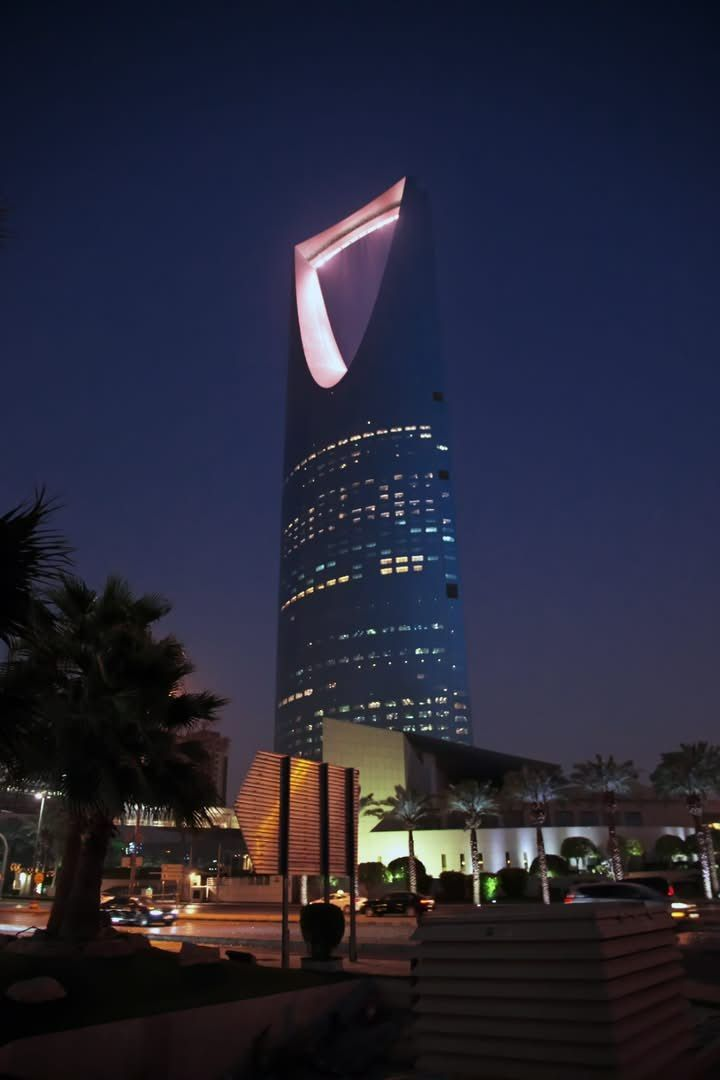
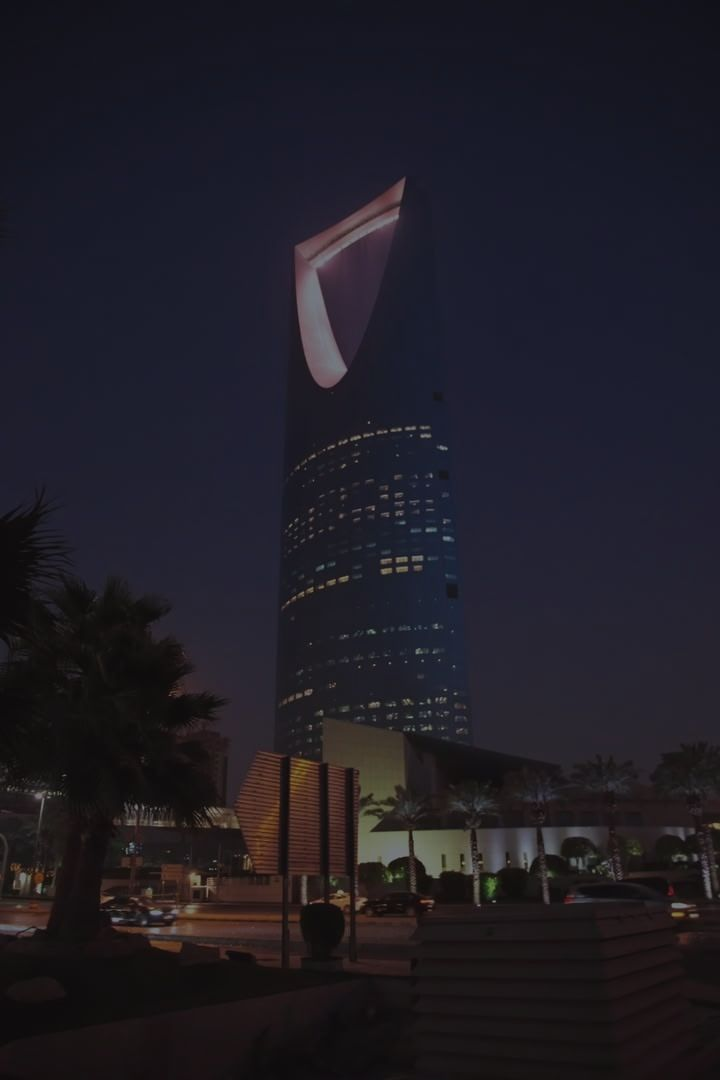
fix: email to info@zero2one.sa, English company name ZERO TO ONE, background image on body for all-device compatibility

diff --git a/skills/quiz-html/templates/quiz_template.html b/skills/quiz-html/templates/quiz_template.html
@@ -54,7 +54,12 @@ body{font-family:-apple-system,BlinkMacSystemFont,'PingFang SC','Microsoft YaHei
 .cat-group{margin-bottom:2px}
 .cat-top{padding:8px 16px;font-size:13px;font-weight:700;color:#2d3142;background:#fafbfd;display:flex;align-items:center;gap:6px;position:sticky;top:0;z-index:1;border-bottom:1px solid #f0f2f7}
 .cat-count{font-size:11px;color:#a8adbd;font-weight:normal}
-.cat-sub{padding:6px 16px 8px 16px}
+.cat-law{padding:8px 16px 4px 16px;font-size:12px;font-weight:600;color:#5a607a;display:flex;gap:6px;align-items:flex-start;line-height:1.45;border-top:1px solid #f5f6fa}
+.cat-law:first-of-type{border-top:none}
+.cat-law-name{flex:1;word-break:break-word}
+.cat-law-count{font-size:10px;color:#a8adbd;font-weight:normal;background:#f0f2f7;padding:1px 6px;border-radius:8px;flex-shrink:0;margin-top:2px}
+.cat-sub{padding:4px 16px 6px 24px}
+.cat-sub-flat{padding:10px 16px 12px 16px}
 .cat-sub-name{font-size:11px;color:#a8adbd;margin-bottom:5px;line-height:1.4}
 .cat-nums{display:flex;flex-wrap:wrap;gap:3px}
 .qnum{display:inline-flex;align-items:center;justify-content:center;min-width:30px;height:26px;padding:0 6px;border-radius:5px;font-size:12px;cursor:pointer;transition:all .15s;border:1.5px solid transparent;background:#f5f6fa;color:#5b6172;font-weight:600}
@@ -260,6 +265,8 @@ body.dark .io-btns button.exam{background:rgba(232,140,165,0.15);border-color:#e
 body.dark .left{background:#16213e;border-right-color:#0f3460}
 body.dark .left-scroll::-webkit-scrollbar-thumb{background:#333}
 body.dark .cat-top{background:#16213e;color:#e0e3ed;border-bottom-color:#0f3460}
+body.dark .cat-law{color:#c5cad8;border-top-color:#1f2a44}
+body.dark .cat-law-count{background:#1f2a44;color:#888}
 body.dark .cat-count{color:#666}
 body.dark .qnum{background:rgba(100,100,100,0.15);color:#777;border-color:transparent}
 body.dark .qnum:hover{border-color:#e88ca5;color:#fff}
@@ -507,6 +514,9 @@ function init() {
   buildSidebar();
   applyFilters();
   updateStats();
+
+  // 默认选中筛选结果中的第 1 题（首次进入不再是空白态）
+  if (filteredIds.length > 0) selectQ(filteredIds[0]);
 }
 
 function loadState() {
@@ -534,8 +544,8 @@ function loadFilters() {
     if (!activeFilters[btn.dataset.f]) btn.classList.add('off');
   });
 
-  // 学科：默认全选
-  const cats = [...new Set(QS.map(q => (q.category || '通用').trim()))];
+  // 学科：默认全选（只取一级分类）
+  const cats = [...new Set(QS.map(getCatKey))];
   try {
     const raw = localStorage.getItem(CATS_KEY);
     const arr = raw ? JSON.parse(raw) : null;
@@ -543,10 +553,31 @@ function loadFilters() {
   } catch (e) { activeCats = new Set(cats); }
 }
 
-/* ===== 分类 chips（按"学科/子分类"完整路径展示） ===== */
+/* ===== 分类解析 =====
+   category 形如 "通用类 / 1.中华人民共和国证券法（…）"：
+     一级（顶部 chip + 侧栏顶 cat-top）= 斜杠前的 "通用类"
+     二级（侧栏 cat-sub-top，法规名）  = 斜杠后剩余部分
+   knowledge_point 形如 "一、法律/1.中华人民共和国证券法（…）/《证券法》适用范围"：
+     真正的知识点 = 最后一段 "《证券法》适用范围"
+   既兼容旧扁平数据（无斜杠），又把 badcase 里冗余的层级路径清掉。
+*/
+function splitCat(raw) {
+  const s = (raw || '通用').trim();
+  const i = s.indexOf('/');
+  if (i < 0) return { top: s, sub: '' };
+  return { top: s.slice(0, i).trim() || '通用', sub: s.slice(i + 1).trim() };
+}
 function getCatKey(q) {
-  // category 字段已含 "物理 / 电学" 这种完整路径，直接用即可
-  return (q.category || '通用').trim();
+  return splitCat(q.category).top;
+}
+function getSubCat(q) {
+  return splitCat(q.category).sub;
+}
+function getKpLeaf(q) {
+  const raw = (q.knowledge_point || q.knowledge || '').trim();
+  if (!raw) return '未分类';
+  const parts = raw.split('/').map(s => s.trim()).filter(Boolean);
+  return parts.length ? parts[parts.length - 1] : '未分类';
 }
 function buildCatChips() {
   const cats = [...new Set(QS.map(getCatKey))];
@@ -581,30 +612,66 @@ function toggleCat(cat, el) {
 
 /* ===== 侧栏 ===== */
 function buildSidebar() {
+  // 三层：一级分类 → 法规（category 后段） → 知识点（knowledge_point 最后一段）
   const groups = {};
   QS.forEach(q => {
     const cat = getCatKey(q);
     if (!activeCats.has(cat)) return;
-    const sub = q.knowledge_point || q.knowledge || '未分类';
+    const law = getSubCat(q) || '通用';   // 二级：法规名
+    const kp = getKpLeaf(q);              // 三级：知识点叶子
     if (!groups[cat]) groups[cat] = {};
-    if (!groups[cat][sub]) groups[cat][sub] = [];
-    groups[cat][sub].push(q);
+    if (!groups[cat][law]) groups[cat][law] = {};
+    if (!groups[cat][law][kp]) groups[cat][law][kp] = [];
+    groups[cat][law][kp].push(q);
   });
 
   const container = document.getElementById('leftScroll');
   container.innerHTML = '';
   Object.keys(groups).forEach(cat => {
-    const subs = groups[cat];
-    const total = Object.values(subs).reduce((s, arr) => s + arr.length, 0);
+    const laws = groups[cat];
+    const lawKeys = Object.keys(laws);
+    const total = Object.values(laws).reduce(
+      (s, kps) => s + Object.values(kps).reduce((n, arr) => n + arr.length, 0), 0
+    );
+
+    // 兜底：如果该一级下没有任何有效二级 / 三级（法规名都是"通用" 且 知识点都是"未分类"），
+    // 直接平铺题号，避免出现一个孤零零的"未分类"中间层
+    const hasLaw = lawKeys.some(l => l && l !== '通用');
+    const hasKp = lawKeys.some(l => Object.keys(laws[l]).some(k => k && k !== '未分类'));
+    const flat = !hasLaw && !hasKp;
+
     let html = `<div class="cat-group"><div class="cat-top">📂 ${escapeHtml(cat)} <span class="cat-count">${total}题</span></div>`;
-    Object.keys(subs).forEach(sub => {
-      html += `<div class="cat-sub"><div class="cat-sub-name">${escapeHtml(sub)}</div><div class="cat-nums">`;
-      subs[sub].forEach(q => {
+
+    if (flat) {
+      // 收集所有题号，按 id 排序后一把铺出来
+      const allQs = [];
+      lawKeys.forEach(l => Object.values(laws[l]).forEach(arr => allQs.push(...arr)));
+      allQs.sort((a, b) => a.id - b.id);
+      html += `<div class="cat-sub cat-sub-flat"><div class="cat-nums">`;
+      allQs.forEach(q => {
         const st = states[q.id] || 'unstudied';
         html += `<span class="qnum ${st}" data-id="${q.id}" onclick="selectQ(${q.id})">${q.id}</span>`;
       });
       html += `</div></div>`;
-    });
+    } else {
+      lawKeys.forEach(law => {
+        const kps = laws[law];
+        const lawTotal = Object.values(kps).reduce((n, arr) => n + arr.length, 0);
+        // 法规名长，可能换行；用 title 兜底显示完整原文
+        if (law && law !== '通用') {
+          html += `<div class="cat-law" title="${escapeHtml(law)}"><span class="cat-law-name">${escapeHtml(law)}</span><span class="cat-law-count">${lawTotal}</span></div>`;
+        }
+        Object.keys(kps).forEach(kp => {
+          html += `<div class="cat-sub"><div class="cat-sub-name" title="${escapeHtml(kp)}">${escapeHtml(kp)}</div><div class="cat-nums">`;
+          kps[kp].forEach(q => {
+            const st = states[q.id] || 'unstudied';
+            html += `<span class="qnum ${st}" data-id="${q.id}" onclick="selectQ(${q.id})">${q.id}</span>`;
+          });
+          html += `</div></div>`;
+        });
+      });
+    }
+
     html += `</div>`;
     container.insertAdjacentHTML('beforeend', html);
   });

diff --git a/src/app/globals.css b/src/app/globals.css
@@ -182,83 +182,37 @@
 
 /* ========================================
    SAUDI LANDMARKS BACKGROUND
-   Background image using <img> tag for
+   Background image on body element for
    maximum cross-browser compatibility.
-   Falls back to solid color if image fails.
+   Image is pre-darkened, no overlay needed.
    ======================================== */
+
+/* Body gets the background - works on ALL devices */
+body {
+  background-image: url('/images/saudi-landmarks-bg.jpg') !important;
+  background-size: cover !important;
+  background-position: center center !important;
+  background-repeat: no-repeat !important;
+  background-attachment: scroll !important;
+  background-color: #1a1517 !important;
+}
+
+/* Parallax effect only on desktop with hover capability */
+@media (hover: hover) and (pointer: fine) {
+  body {
+    background-attachment: fixed !important;
+  }
+}
+
 .saudi-bg-wrapper {
   position: relative;
   min-height: 100vh;
-  /* Solid color fallback in case image doesn't load */
-  background-color: #1a1517;
+  /* No need for separate background - body handles it */
 }
 
-/* The background image - works on ALL browsers including mobile */
+/* Hide the <img> tag - body background handles everything now */
 .saudi-bg-image {
-  position: fixed;
-  top: 0;
-  left: 0;
-  width: 100%;
-  height: 100%;
-  z-index: 0;
-  object-fit: cover;
-  object-position: center center;
-  opacity: 0.45;
-  pointer-events: none;
-  will-change: transform;
-  -webkit-transform: translateZ(0);
-  transform: translateZ(0);
-  /* Prevent any flickering */
-  -webkit-backface-visibility: hidden;
-  backface-visibility: hidden;
-}
-
-/* ========================================
-   MOBILE BROWSER FIXES
-   position:fixed doesn't work well on many
-   mobile browsers. Use absolute instead.
-   ======================================== */
-
-/* iOS Safari - position:fixed behaves unpredictably */
-@supports (-webkit-touch-callout: none) {
-  .saudi-bg-image {
-    position: absolute;
-    top: 0;
-    left: 0;
-  }
-  .saudi-bg-wrapper {
-    position: relative;
-    overflow-x: hidden;
-  }
-}
-
-/* All mobile devices - screen width below 768px likely mobile */
-@media (max-width: 768px) {
-  .saudi-bg-image {
-    position: absolute;
-    top: 0;
-    left: 0;
-  }
-}
-
-/* Chrome on iOS (uses WebKit but doesn't support -webkit-touch-callout) */
-@media (hover: none) and (pointer: coarse) {
-  .saudi-bg-image {
-    position: absolute;
-    top: 0;
-    left: 0;
-  }
-}
-
-/* Fallback for browsers that don't support object-fit */
-@supports not (object-fit: cover) {
-  .saudi-bg-image {
-    min-width: 100%;
-    min-height: 100%;
-    width: auto;
-    height: auto;
-    object-fit: unset;
-  }
+  display: none !important;
 }
 
 .saudi-bg-content {

diff --git a/src/lib/i18n.ts b/src/lib/i18n.ts
@@ -113,7 +113,7 @@ export const translations = {
     contact_info_title: 'معلومات التواصل',
     contact_address: 'الرياض - العليا، مجمع الكمبيوترات، الدور السابع',
     contact_phone_num: '+966 53 030 7054',
-    contact_email_addr: 'zero2one012025@gmail.com',
+    contact_email_addr: 'info@zero2one.sa',
     contact_working: 'ساعات العمل',
     contact_working_days: 'الأحد - الخميس',
     contact_working_hours: '9:00 ص - 6:00 م',
@@ -176,7 +176,7 @@ export const translations = {
   },
   en: {
     // Company Name
-    company_name: 'ZERO 2 ONE',
+    company_name: 'ZERO TO ONE',
 
     // Header
     nav_home: 'Home',
@@ -286,14 +286,14 @@ export const translations = {
     contact_info_title: 'Contact Information',
     contact_address: 'Riyadh - Olaya, Computers Complex, 7th Floor',
     contact_phone_num: '+966 53 030 7054',
-    contact_email_addr: 'zero2one012025@gmail.com',
+    contact_email_addr: 'info@zero2one.sa',
     contact_working: 'Working Hours',
     contact_working_days: 'Sunday - Thursday',
     contact_working_hours: '9:00 AM - 6:00 PM',
     contact_social: 'Follow Us',
 
     // Footer
-    footer_desc: 'ZERO 2 ONE Agency — A digital marketing, development, and branding agency in Saudi Arabia that combines strategic thinking with creative execution. From Zero to One.',
+    footer_desc: 'ZERO TO ONE Agency — A digital marketing, development, and branding agency in Saudi Arabia that combines strategic thinking with creative execution. From Zero to One.',
     footer_links: 'Quick Links',
     footer_services: 'Our Services',
     footer_contact: 'Contact Us',

diff --git a/src/app/layout.tsx b/src/app/layout.tsx
@@ -142,7 +142,7 @@ j=d.createElement(s),dl=l!='dataLayer'?'&l='+l:'';j.async=true;j.src=
               description: "وكالة تسويق رقمي وبرمجة وهوية تجارية في السعودية - من الصفر إلى الواحد",
               url: "https://zero2one.sa",
               logo: "https://zero2one.sa/logo.png",
-              email: "zero2one012025@gmail.com",
+              email: "info@zero2one.sa",
               address: {
                 "@type": "PostalAddress",
                 addressCountry: "SA",
@@ -185,7 +185,7 @@ j=d.createElement(s),dl=l!='dataLayer'?'&l='+l:'';j.async=true;j.src=
               description: "وكالة تسويق رقمي وتحول رقمي في الرياض، السعودية",
               url: "https://zero2one.sa",
               telephone: "+966530307054",
-              email: "zero2one012025@gmail.com",
+              email: "info@zero2one.sa",
               image: "https://zero2one.sa/logo.png",
               priceRange: "$$",
               address: {

diff --git a/skills/quiz-mastery/src/quiz_mastery/quiz_generator.py b/skills/quiz-mastery/src/quiz_mastery/quiz_generator.py
@@ -94,7 +94,12 @@ Level {level}: {level_desc[level]}
 5. 简答题 (short_answer)：answer 填参考答案
 6. 每道题必须包含 explanation（解析）
 7. 题目内容必须基于上述知识点的名称、定义和描述，不要超出范围
-8. 总题数：{num_questions} 道
+8. **每道题必须填写 `category` 和 `knowledge_point` 字段**（用于分类筛选和侧栏分组）：
+   - `category`：一级分类，**短词**（建议 2-6 字），用于顶部分类筛选 chip。
+     例：物理 / 数学 / 法律 / 历史 / 编程 / 通用 等。
+     **不要**写成长串、不要含日期、不要含编号、不要含书名号或斜杠。
+   - `knowledge_point`：所属知识点名称（直接用关联知识点的 title 即可），用于侧栏分组。
+9. 总题数：{num_questions} 道
 
 ## 输出格式
 输出纯 JSON 数组，每个元素格式如下：
@@ -103,6 +108,8 @@ Level {level}: {level_desc[level]}
   {{
     "id": "q_001",
     "knowledge_point_ids": ["kp_id"],
+    "category": "物理",
+    "knowledge_point": "牛顿第二定律",
     "level": {level},
     "type": "single_choice",
     "prompt": "题目内容",

diff --git a/skills/quiz-mastery/SKILL.md b/skills/quiz-mastery/SKILL.md
@@ -191,8 +191,11 @@ info = json.loads(result.stdout)  # {"success": true, "output_path": "...", ...}
 ### 题目字段补全建议
 
 调用前，最好给每道题补上以下字段（如果出题时没生成）：
-- `category`：用 "学科 / 子模块" 格式，如 `"物理 / 电学"`、`"数学 / 分数"`
-- `knowledge_point`：知识点名（侧边栏分组用）
+- `category`：**一级分类，短词**（建议 2-6 字），用于网页顶部分类筛选 chip。
+  - ✅ 推荐：`物理` / `数学` / `法律` / `历史` / `编程` / `通用`
+  - ❌ 避免：`通用类 / 1.中华人民共和国证券法（1998年12月29日…）` 这种长串、含日期/编号/斜杠的写法
+  - 如果非要分两级，用 `/` 分隔且二级也要短：`物理 / 电学`
+- `knowledge_point`：知识点名（侧边栏分组用，可与 quiz-mastery 的 KP title 一致，不要带层级前缀）
 - `memory_tip`：记忆口诀（可选，K12 学生很需要）
 
 这样网页的分类筛选、侧栏分组、记忆卡片才能发挥作用。
